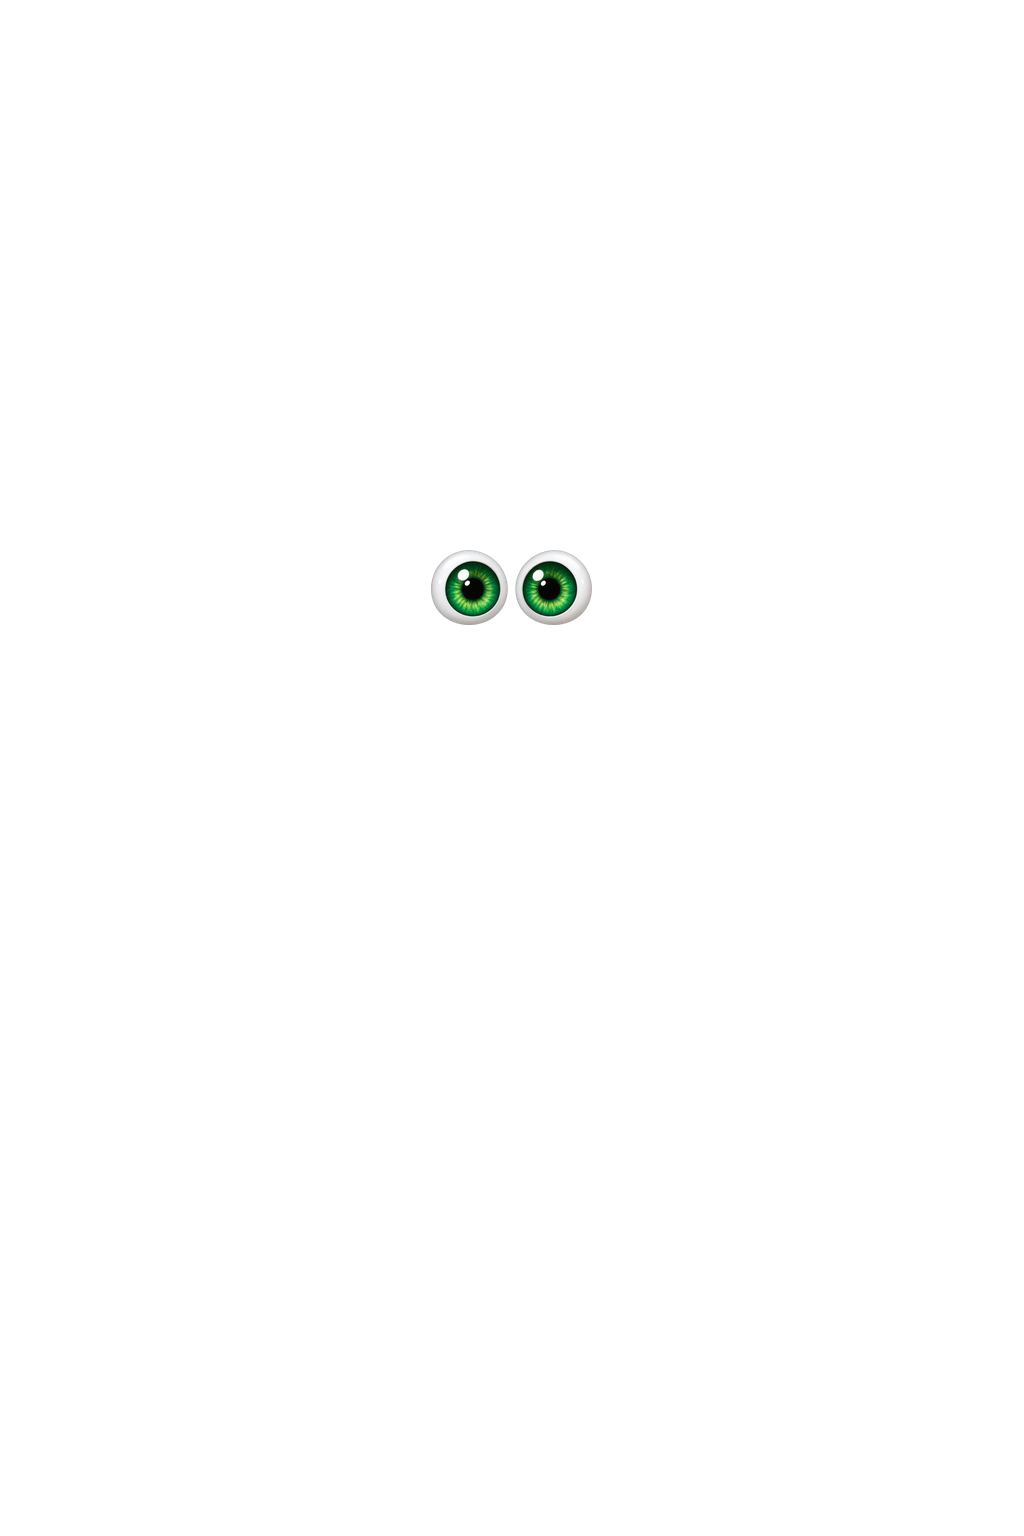
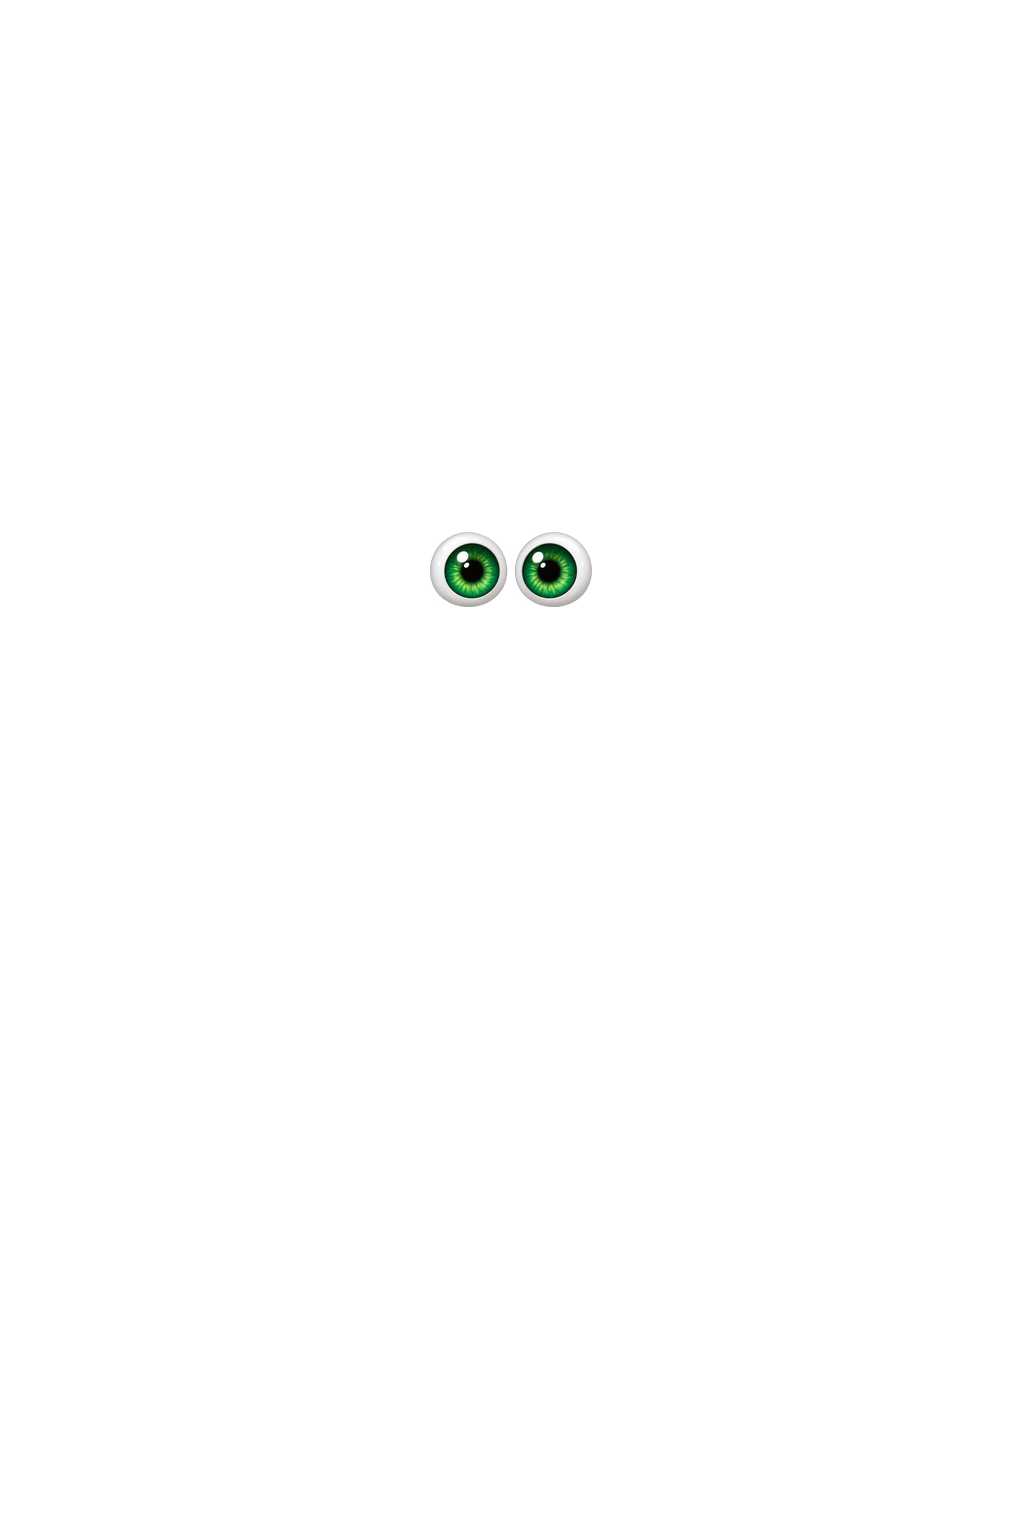
Reset all layers on Itty type change and restore eye position

Changed region(s): [[0.4062, 0.3438, 0.5938, 0.4062]]

diff --git a/app/admin/base-poses.jsx b/app/admin/base-poses.jsx
@@ -39,6 +39,21 @@ export default function BasePoses() {
   const [faces, setFaces] = useState({male:{mouth:0},female:{mouth:0}});
   const [eyeColour, setEyeColour] = useState("brown");
   const [personality, setPersonality] = useState(null);
+  function startItty(type = null) {
+    setSelected(null);
+    setGender(type);
+    setSkin("yellow");
+    setEraser("standard-pink");
+    setMotion("static");
+    setPattern(null);
+    setColourGroup("regular");
+    setArms(true);
+    setGesture("hype");
+    setJewellery(null);
+    setFaces({male:{mouth:0},female:{mouth:0}});
+    setEyeColour("brown");
+    setPersonality(null);
+  }
   function chooseFace(category,id){setFaces(previous => ({...previous,[gender]:{...previous[gender],[category]:id}}));}
   const pose = poses.find(item => item.id === selected);
   return (
@@ -51,12 +66,12 @@ export default function BasePoses() {
         <section className="admin-review-hero">
           <p>{!gender ? "01 · CHOOSE YOUR ITTY" : !pose ? "02 · CHOOSE YOUR POSE" : "03 · CUSTOMIZE YOUR ITTY"}</p>
           <h1>{!gender ? <>Choose your <em>Itty.</em></> : pose ? <>Change your <em>layers.</em></> : <>Pick a <em>pose.</em></>}</h1>
-          <p>{!gender ? "Start with a male or female Itty to see its trait options." : `${gender === "male" ? "Male" : "Female"} Itty · Choose your lifelong pencil, then build its look with layers.`}</p>
-          {gender && <button type="button" className="pose-change-button" onClick={()=>{setGender(null);setSelected(null);}}>← Change Itty type</button>}
+          <p>{!gender ? "Start with a male or female Itty to see its trait options. Changing Itty type starts a fresh selection." : `${gender === "male" ? "Male" : "Female"} Itty · Choose your lifelong pencil, then build its look with layers.`}</p>
+          {gender && <button type="button" className="pose-change-button" onClick={()=>startItty()}>← Change Itty type</button>}
         </section>
         {!gender ? (
           <section className="itty-type-options" aria-label="Choose male or female Itty">
-            {["male","female"].map(value=><button key={value} type="button" onClick={()=>setGender(value)}><span className="itty-type-step">START HERE</span><strong>{value === "male" ? "Male Itty" : "Female Itty"}</strong><span>Explore {value} traits</span><span aria-hidden="true">Choose Itty →</span></button>)}
+            {["male","female"].map(value=><button key={value} type="button" onClick={()=>startItty(value)}><span className="itty-type-step">START HERE</span><strong>{value === "male" ? "Male Itty" : "Female Itty"}</strong><span>Explore {value} traits</span><span aria-hidden="true">Choose Itty →</span></button>)}
           </section>
         ) : !pose ? (
           <section className="base-pose-options pose-first-options" aria-label="Choose base pose">
@@ -73,7 +88,7 @@ export default function BasePoses() {
               <div className={`pose-layer-stage motion-${motion}`}><div className="character-stack">
                 <img style={{zIndex:2}} src={skin === "yellow" ? `/assets/base-poses/${pose.id}.webp?v=clean-edges7` : `/assets/pencil-skins/${pose.id}-${skin}.webp?v=clean-edges7`} alt={`${PENCIL_COLOURS.find(item => item.id === skin).name} pencil — ${pose.name}`} />
               {arms && <img style={{zIndex:1}} className="pose-dress-layer" src={`/assets/fitted-traits/${pose.id}/gestures/${gesture}-${skin}.webp?v=1`} alt={`${gesture} arms and hands`}/>}
-                <img style={{zIndex:6}} className="pose-dress-layer" src={`/assets/faces/eye-colours/${pose.id}/${eyeColour}.webp?v=1`} alt={`${eyeColour} eyes`}/>
+                <img style={{zIndex:6}} className="pose-dress-layer" src={`/assets/faces/eye-colours/${pose.id}/${eyeColour}.webp?v=position2`} alt={`${eyeColour} eyes`}/>
                 {personality && <img style={{zIndex:6}} className="pose-dress-layer" src={`/assets/faces/personality/${pose.id}/${personality}.webp?v=1`} alt={`${personality} eyebrows and forehead detail`}/>}
                 {faces[gender].mouth !== null && <img style={{zIndex:6}} className="pose-dress-layer" src={`/assets/faces/${gender}/${pose.id}/mouth/${faces[gender].mouth}.webp?v=face-spacing3`} alt={`${gender} mouth — ${mouthNames[gender][faces[gender].mouth]}`}/>}
 

diff --git a/scripts/build-simple-eyes.py b/scripts/build-simple-eyes.py
@@ -32,7 +32,7 @@ for row,pose in enumerate(['tilt-left','tilt-right','straight']):
         item=item.rotate(angle,Image.Resampling.BICUBIC,expand=True)
         layer=Image.new('RGBA',base.size);layer.alpha_composite(item,(round(x-item.width/2),round(y-item.height/2)));return layer
     for i,name in enumerate(COLOURS):
-        item=sprite(eyes,i,2,2);layer=place(item,.23,.94,.52)
+        item=sprite(eyes,i,2,2);layer=place(item,.20,.94,.52)
         save(layer,OUT/f'eye-colours/{pose}/{name}.webp')
         thumb=item.copy();thumb.thumbnail((200,100));save(thumb,OUT/f'eye-colours/thumbs/{name}.webp')
         preview=base.copy();preview.alpha_composite(layer);preview.alpha_composite(Image.open(OUT/f'male/{pose}/mouth/0.webp').convert('RGBA'));preview.thumbnail((300,400));board.alpha_composite(preview,(i*300,row*450+35));draw.text((i*300+12,row*450+10),pose+' / '+name,fill='white')
